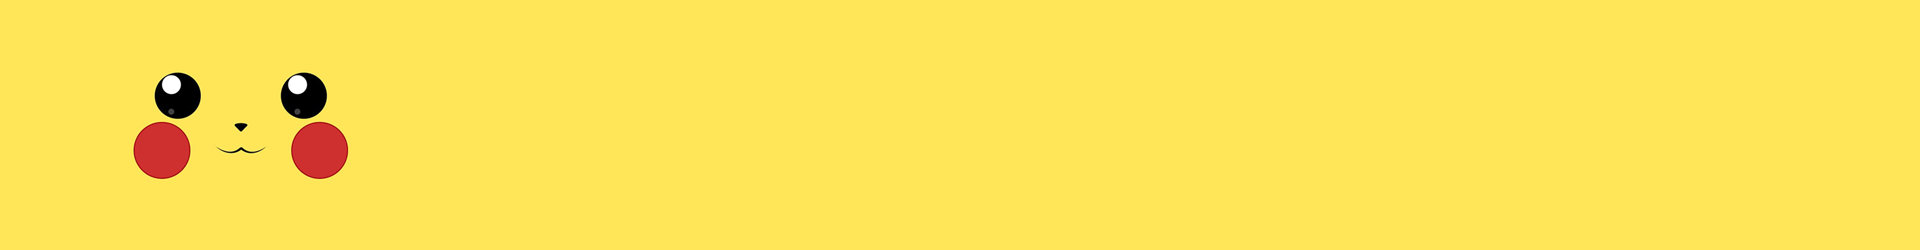
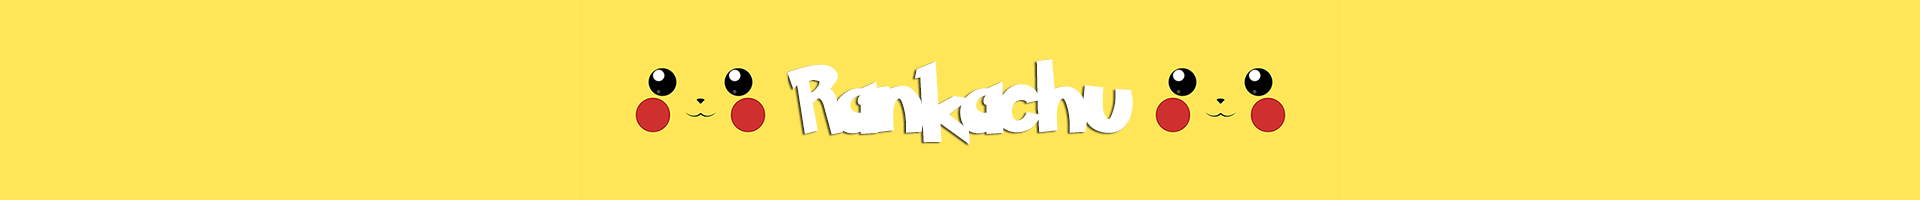
final css changes

Changed region(s): [[0.3125, 0.3, 0.6875, 0.72], [0.0625, 0.3, 0.1875, 0.72]]

diff --git a/client/components/VoteList.tsx b/client/components/VoteList.tsx
@@ -1,24 +1,26 @@
 import * as React from 'react'
 import {Dropdown} from 'rsuite';
-
 import 'rsuite/dist/styles/rsuite-default.css'
-import {useEffect} from "react";
-import { getOverallLocalStore, getLegendaryLocalStore} from './utils';
 
-export function VoteList (){
+import {useEffect} from "react";
+import {getOverallLocalStore, getLegendaryLocalStore} from './utils';
+import '../css/VoteList.css'
+import DropdownMenu from "rsuite/es/Dropdown/DropdownMenu";
+
+export function VoteList() {
     const [overallList, setOverallList] = React.useState<[]>([])
     const [legendaryList, setLegendaryList] = React.useState<[]>([])
 
 
-    React.useEffect(()=>{
+    React.useEffect(() => {
         updateVoteList()
-    },[overallList, legendaryList])
+    }, [overallList, legendaryList])
 
     const updateVoteList = () => {
         let stateLegendary = []
         let localStoreLegendary = getLegendaryLocalStore()
         if (localStoreLegendary !== null) {
-            if(localStoreLegendary !== JSON.stringify(legendaryList)){
+            if (localStoreLegendary !== JSON.stringify(legendaryList)) {
                 stateLegendary = JSON.parse(localStoreLegendary)
                 setLegendaryList(stateLegendary)
             }
@@ -26,41 +28,39 @@ export function VoteList (){
         let stateOverall = []
         let localStoreOverall = getOverallLocalStore()
         if (localStoreOverall !== null) {
-            if(localStoreOverall !== JSON.stringify(overallList)){
+            if (localStoreOverall !== JSON.stringify(overallList)) {
                 stateOverall = JSON.parse(localStoreOverall)
                 setOverallList(stateOverall)
             }
         }
     }
 
-    const renderOverallVotes= () =>{
-        console.log(legendaryList)
+    const renderOverallVotes = () => {
         //if
-        let voteList = overallList?.map((voted: { name: string, spriteURL: string})=>(
-            <Dropdown.Item>
+        let voteList = overallList?.map((voted: { name: string, spriteURL: string }) => (
+            <Dropdown.Item className="dropdownitems">
                 <img src={voted.spriteURL}/>
-                <p>{voted.name}</p>
+                <p className="dropdownName">{voted.name}</p>
             </Dropdown.Item>
         ))
         return voteList
     }
-    const renderLegendaryVotes= () =>{
-        console.log(legendaryList)
+    const renderLegendaryVotes = () => {
         //if
-        let voteList = legendaryList?.map((voted: { name: string, spriteURL: string})=>(
-            <Dropdown.Item>
-                <img src={voted.spriteURL}/>
-                <p>{voted.name}</p>
+        let voteList = legendaryList?.map((voted: { name: string, spriteURL: string }) => (
+            <Dropdown.Item className="dropdownitems">
+                <img src={voted.spriteURL} className="dropdownImg"/>
+                <p className="dropdownName">{voted.name}</p>
             </Dropdown.Item>
         ))
         return voteList
     }
 
-    return(
-        <Dropdown onClick={updateVoteList} title="Voted">
-            <Dropdown.Item>Overall Votes</Dropdown.Item>
+    return (
+        <Dropdown onClick={updateVoteList} title="Voted" className="dropdown">
+            <Dropdown.Item className="dropdownheader">Overall Votes</Dropdown.Item>
             {renderOverallVotes()}
-            <Dropdown.Item>Legendary Votes</Dropdown.Item>
+            <Dropdown.Item className="dropdownheader">Legendary Votes</Dropdown.Item>
             {renderLegendaryVotes()}
         </Dropdown>
     )

diff --git a/client/components/Home.tsx b/client/components/Home.tsx
@@ -48,7 +48,6 @@ export const Home = () =>{
     const renderContenders = (contest:String) => {
         if(pokeRankings){
             let index
-
             if (contest === "overall"){index = 0}
             else if(contest === "legendary"){index = 1}
             else{index = 2}
@@ -66,26 +65,26 @@ export const Home = () =>{
     }
     return(
         <div>
-            <h1>Pokemon Ranking</h1>
-            <h2>Top Overall</h2>
+            <h1 className="title">Pokemon Ranking</h1>
+            <h2 className="subheader">Top Overall</h2>
             <Grid>
-                <Row>
+                <Row className="row">
                     {renderTopThree("overall")}
                 </Row>
             </Grid>
-            <Panel header="Honourable Mentions" defaultExpanded collapsible bordered>
+            <Panel header="Honourable Mentions" defaultExpanded collapsible bordered className="honourableMentions">
                 <List>
                     {renderContenders("overall")}
                 </List>
             </Panel>
-            <h2>Top Legendary</h2>
+            <h2 className="subheader">Top Legendary</h2>
             <Grid>
-                <Row>
+                <Row className="row">
                     {renderTopThree("legendary")}
                 </Row>
             </Grid>
-            <Panel header="Honourable Mentions" defaultExpanded collapsible bordered>
-                <List>
+            <Panel header="Honourable Mentions" defaultExpanded collapsible bordered className="honourableMentions">
+                <List >
                     {renderContenders("legendary")}
                 </List>
             </Panel>

diff --git a/client/components/PokemonList.tsx b/client/components/PokemonList.tsx
@@ -197,19 +197,21 @@ export function PokemonList(props: PokemonListProps) {
             <List size="sm" bordered hover >
                 {renderList()}
             </List>
-            <Pagination
-                className="paging"
-                prev
-                last
-                next
-                first
-                size="lg"
-                ellipsis
-                pages={maxPages}
-                maxButtons={10}
-                activePage={currPage}
-                onSelect={paging}
-            />
+            <div className="pagingWrapper">
+                <Pagination
+                    className="paging"
+                    prev
+                    last
+                    next
+                    first
+                    size="m"
+                    ellipsis
+                    pages={maxPages}
+                    maxButtons={10}
+                    activePage={currPage}
+                    onSelect={paging}
+                />
+            </div>
         </div>
     )
 }

diff --git a/client/components/App.tsx b/client/components/App.tsx
@@ -10,7 +10,7 @@ export const App = () =>{
     return(
         <Router>
             <div>
-                <img alt="vanity" src="../assets/pikapng.png"/>
+                <img className="banner" alt="vanity" src="../assets/pikapng.png"/>
                 <Navigation/>
                 <Switch>
                     <Route exact path='/' component={Home}/>

diff --git a/client/css/VoteList.css b/client/css/VoteList.css
@@ -1,0 +1,16 @@
+.dropdownitems{
+    width: 200px;
+    align-content: center;
+}
+.dropdownheader{
+    text-align: center;
+    font-weight: bold;
+}
+
+.dropdownImg{
+    display: inline;
+    position: center;
+}
+.dropdownName{
+    display: inline;
+}

diff --git a/client/css/Home.css b/client/css/Home.css
@@ -2,3 +2,17 @@
     height:auto;
     width:100%;
 }
+.title{
+    text-align: center;
+    padding: 2px;
+}
+.subheader{
+    text-align: center;
+    margin: 2px;
+}
+.honourableMentions{
+    margin: 10px;
+}
+.row{
+    padding: 10px;
+}

diff --git a/client/css/PokemonList.css b/client/css/PokemonList.css
@@ -10,3 +10,11 @@
 .p{
     font-size: 15px;
 }
+
+.pagingWrapper{
+    position: relative;
+}
+.paging {
+    position: absolute;
+    left: 33%;
+}

diff --git a/client/css/App.css b/client/css/App.css
@@ -1,4 +1,3 @@
-img{
-    height: 100%;
-    width: auto;
+.banner{
+    width: 100%;
 }
